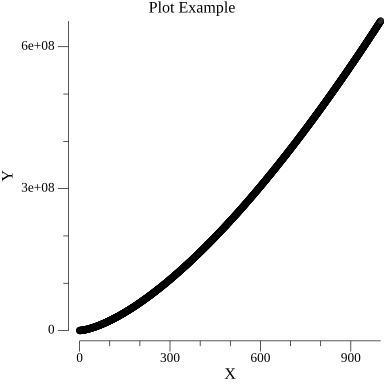
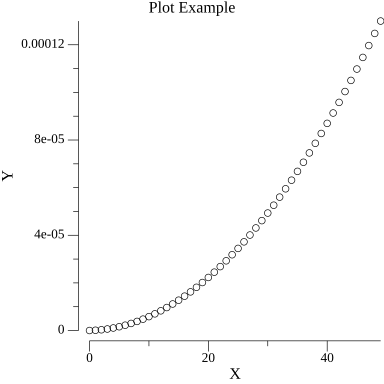
update
there was something wrong in searchparameter as when the total number of parameters is not 4, it does not work. As a result the new function need the number of parameters as a input

diff --git a/go/functions.go b/go/functions.go
@@ -75,7 +75,7 @@ func CalculateTotoalBondStretchEnergy(k, r, r_0 float64) float64 {
 
 func PerformEnergyMinimization(currentProtein *Protein, residueParameterValue map[string]residueParameter, bondParameter, angleParameter, dihedralParameter, nonbondParameter, pairtypesParameter parameterDatabase) *Protein {
 
-	iteration := 100
+	iteration := 50
 	// set maximum displacement
 	h := 0.01
 
@@ -118,18 +118,22 @@ func CalculateTotalEnergyForce(p *Protein, residueParameterValue map[string]resi
 
 		// Calculate bondstretch energy
 		// range over each bond
+
 		for _, bondPairs := range residueParameterValue[residue.Name].bonds {
 			for i := 0; i < len(residue.Atoms)-1; i++ {
 				atom1 := residue.Atoms[i]
 				if atom1.element[0] == (*bondPairs).atoms[0][0] {
 					for j := i + 1; j < len(residue.Atoms); j++ {
 						if residue.Atoms[j].element[0] == (*bondPairs).atoms[1][0] {
+
 							atom2 := residue.Atoms[j]
 							r := Distance(atom1.position, atom2.position)
-							parameterList := SearchParameter(bondParameter, atom1, atom2)
+							parameterList := SearchParameter(2, bondParameter, atom1, atom2)
 							if len(parameterList) != 1 {
+
 								bondEnergy += CalculateBondStretchEnergy(parameterList[1], r, parameterList[0])
 								force := CalculateBondForce(parameterList[1], r, parameterList[0], atom1, atom2)
+
 								_, exist := forceMap[i]
 								if exist {
 									forceMap[i].x += force.x
@@ -173,10 +177,12 @@ func CalculateTotalEnergyForce(p *Protein, residueParameterValue map[string]resi
 								if residue.Atoms[k].element[0] == (*angleTris).atoms[2][0] {
 									atom3 := residue.Atoms[k]
 									theta := CalculateAngle(atom1, atom2, atom3)
-									parameterList := SearchParameter(angleParameter, atom1, atom2, atom3)
+									parameterList := SearchParameter(3, angleParameter, atom1, atom2, atom3)
 									if len(parameterList) != 1 {
+
 										angleEnergy += CalculateAnglePotentialEnergy(parameterList[1], theta, parameterList[0])
 										force_i, force_j, force_k := CalculateAngleForce(parameterList[1], theta, parameterList[0], atom1, atom2, atom3)
+
 										_, exist := forceMap[i]
 										if exist {
 											forceMap[i].x += force_i.x
@@ -238,10 +244,12 @@ func CalculateTotalEnergyForce(p *Protein, residueParameterValue map[string]resi
 										if residue.Atoms[l].element[0] == (*dihedralValues).atoms[3][0] {
 											atom4 := residue.Atoms[l]
 											phi := CalculateDihedralAngle(atom1, atom2, atom3, atom4)
-											parameterList := SearchParameter(dihedralParameter, atom1, atom2, atom3, atom4)
+											parameterList := SearchParameter(4, dihedralParameter, atom1, atom2, atom3, atom4)
 											if len(parameterList) != 1 {
+
 												dihedralEnergy += CalculateProperDihedralAngleEnergy(parameterList[1], phi, parameterList[2], parameterList[0])
 												force_i, force_j, force_k, force_l := CalculateProperDihedralsForce(parameterList[1], phi, parameterList[2], parameterList[0], atom1, atom2, atom3, atom4)
+
 												_, exist := forceMap[i]
 												if exist {
 													forceMap[i].x += force_i.x
@@ -302,6 +310,7 @@ func CalculateTotalEnergyForce(p *Protein, residueParameterValue map[string]resi
 				}
 			}
 		}
+
 	}
 
 	//  unfinished for nonbonded
@@ -310,7 +319,7 @@ func CalculateTotalEnergyForce(p *Protein, residueParameterValue map[string]resi
 	return totalEnergy, forceMap
 }
 
-func SearchParameter(parameterData parameterDatabase, atoms ...*Atom) []float64 {
+func SearchParameter(value int, parameterData parameterDatabase, atoms ...*Atom) []float64 {
 	for i := range parameterData.atomPair {
 		sym := 0
 		for j := range parameterData.atomPair[i].atomName {
@@ -320,7 +329,7 @@ func SearchParameter(parameterData parameterDatabase, atoms ...*Atom) []float64 
 			sym += 1
 		}
 
-		if sym == 4 {
+		if sym == value {
 			return parameterData.atomPair[i].parameter
 		}
 
@@ -360,7 +369,7 @@ func CalculateBondForce(k, r, r_0 float64, atom1, atom2 *Atom) TriTuple {
 		z: (atom2.position.z - atom1.position.z) / bondLen,
 	}
 
-	fScale := -k * (r - r_0)
+	fScale := k * (r - r_0)
 	force := TriTuple{
 		x: fScale * unitVector.x,
 		y: fScale * unitVector.y,
@@ -373,7 +382,9 @@ func CalculateBondForce(k, r, r_0 float64, atom1, atom2 *Atom) TriTuple {
 func CalculateAngleForce(k, theta, theta_0 float64, atom1, atom2, atom3 *Atom) (TriTuple, TriTuple, TriTuple) {
 	der_U_thate := k * (theta - theta_0)
 	der_that_cos := (-1) * (1 / math.Sin(theta))
-
+	if math.IsNaN(der_that_cos) {
+		return TriTuple{x: 0.0, y: 0.0, z: 0.0}, TriTuple{x: 0.0, y: 0.0, z: 0.0}, TriTuple{x: 0.0, y: 0.0, z: 0.0}
+	}
 	der_theta_x_12 := DerivateAnglePositionX(atom1, atom2, atom3, theta)
 	der_theta_x_32 := DerivateAnglePositionX(atom3, atom2, atom2, theta)
 
@@ -401,6 +412,9 @@ func CalculateAngleForce(k, theta, theta_0 float64, atom1, atom2, atom3 *Atom) (
 		z: -force_i.z - force_k.z,
 	}
 
+	if math.IsNaN(force_i.x) || math.IsNaN(force_j.x) || math.IsNaN(force_k.x) {
+		return TriTuple{x: 0.0, y: 0.0, z: 0.0}, TriTuple{x: 0.0, y: 0.0, z: 0.0}, TriTuple{x: 0.0, y: 0.0, z: 0.0}
+	}
 	return force_i, force_j, force_k
 
 }

diff --git a/go/NewTon.go b/go/NewTon.go
@@ -13,7 +13,7 @@ func SimulateMD(initialProtein Protein, time float64, residueParameterValue map[
 	cerition := 10000.0
 	timePoints = append(timePoints, initialProtein)
 	totalTime := 0.0
-	iteration := 1000
+	iteration := 50
 	for i := 0; i < iteration; i++ {
 		newProtein, _ := UpdateProtein(timePoints[len(timePoints)-1], time, residueParameterValue, bondParameter, angleParameter, dihedralParameter, nonbondParameter, pairtypesParameter)
 		timePoints = append(timePoints, newProtein)
@@ -21,7 +21,6 @@ func SimulateMD(initialProtein Protein, time float64, residueParameterValue map[
 		if totalTime > cerition {
 			break
 		}
-		fmt.Println(i)
 	}
 
 	return timePoints
@@ -35,10 +34,12 @@ func UpdateProtein(currentProtein Protein, time float64, residueParameterValue m
 
 	energy, forceMap := CalculateTotalEnergyForce(newProtein, residueParameterValue, bondParameter, angleParameter, dihedralParameter, nonbondParameter, pairtypesParameter)
 	forceIndex := 0
+
 	// range and update every body in universe
 	for i, b := range newProtein.Residue {
 		for j, a := range b.Atoms {
 			_, exist := forceMap[forceIndex]
+
 			if exist {
 				oldAcceleration, oldVelocity := a.accelerated, a.velocity // OK :)
 				newProtein.Residue[i].Atoms[j].accelerated = UpdateAcceleration(forceMap[forceIndex], a)
@@ -97,8 +98,8 @@ func UpdateAcceleration(force *TriTuple, a *Atom) TriTuple {
 
 func CalculateRMSD(timePoints []Protein) []float64 {
 	var RMSDValue []float64
-	length := 0.0
 	for i := 1; i < len(timePoints); i++ {
+		length := 0.0
 		value := 0.0
 		for j := range timePoints[i].Residue {
 			for k := range timePoints[i].Residue[j].Atoms {
@@ -108,6 +109,7 @@ func CalculateRMSD(timePoints []Protein) []float64 {
 			}
 		}
 		RMSDValue = append(RMSDValue, math.Sqrt(value/length))
+		fmt.Println(RMSDValue)
 	}
 
 	return RMSDValue

diff --git a/go/main.go b/go/main.go
@@ -43,7 +43,7 @@ func main() {
 	pairtypesParameter, error := ReadParameterFile("../data/ffnonbonded_pairtypes.itp")
 	Check(error)
 	initialProtein := PerformEnergyMinimization(&protein, residueParameterValue, bondParameter, angleParameter, dihedralParameter, nonbondedParameter, pairtypesParameter)
-	time := 1.0
+	time := 0.0000001
 	timepoints := SimulateMD(*initialProtein, time, residueParameterValue, bondParameter, angleParameter, dihedralParameter, nonbondedParameter, pairtypesParameter)
 	RSMD := CalculateRMSD(timepoints)
 	TemporaryPlot(RSMD)

diff --git a/go/io.go b/go/io.go
@@ -414,7 +414,9 @@ func TemporaryPlot(RMSD []float64) {
 	}
 
 	p.Add(s)
+
 	if err := p.Save(4*vg.Inch, 4*vg.Inch, "scatter.png"); err != nil {
 		panic(err)
 	}
+
 }
